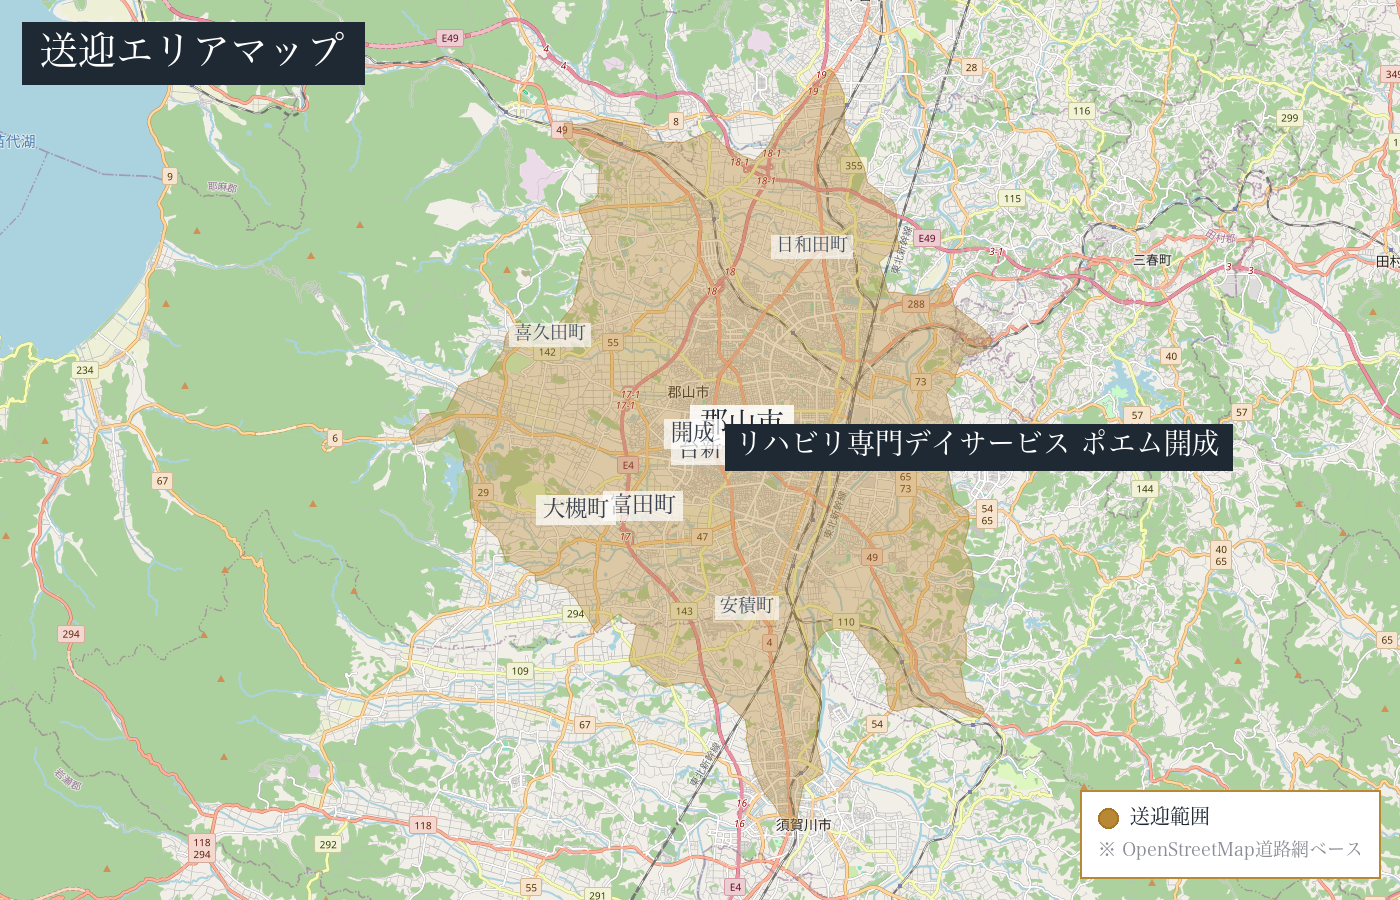
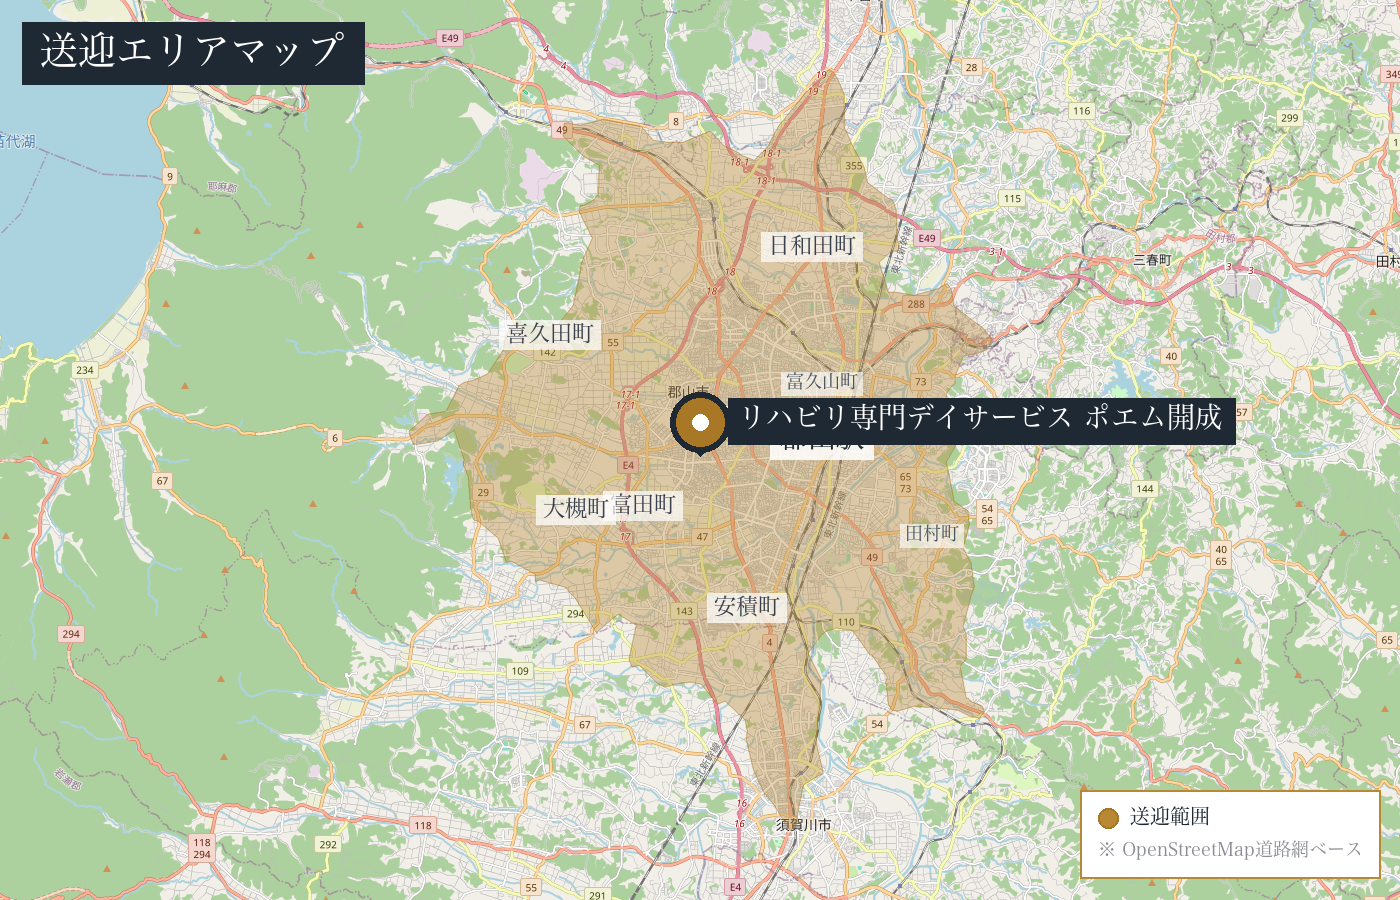
送迎マップ：中心マーカーを📍ピン形状に+周辺地名を強化
【ピンマーカー】
従来の3重円マーカーを廃止し、PILで📍風のティアドロップ型ピンを描画。
ダークアウトライン・ゴールド本体・白い中心点で目立つ仕様に。

【地名ラベル強化】
4事業所すべてに送迎範囲の境界付近の地名を追加：
- 安積店：郡山駅・田村町・喜久田町・阿久津 等
- 賀庄：富久山町・喜久田町・田村町 等
- 開成：開成山公園・富久山町・田村町 等
- 舘山荘：塙町・大子町・矢祭町中心部・関岡 等

これでケアマネが「うちの地域は範囲内？」を地名で素早く判断できる。

diff --git a/tools/generate-isochrone-map.py b/tools/generate-isochrone-map.py
@@ -32,14 +32,17 @@ FACILITIES = [
         'slug': 'asaka',
         'lat': 37.349490, 'lng': 140.362112,
         'labels': [
-            ('郡山市', 37.4003, 140.3596, 'big'),
+            ('郡山駅', 37.3963, 140.3873, 'big'),
             ('須賀川市', 37.2868, 140.3727, 'big'),
             ('安積町', 37.3505, 140.3613, 'med'),
             ('富田町', 37.3782, 140.3257, 'med'),
             ('大槻町', 37.3772, 140.3027, 'med'),
+            ('安積永盛', 37.3325, 140.3717, 'med'),
+            ('田村町', 37.3500, 140.4350, 'med'),
             ('日和田町', 37.4490, 140.3837, 'small'),
             ('長沼', 37.3300, 140.2300, 'small'),
-            ('安積永盛', 37.3325, 140.3717, 'small'),
+            ('喜久田町', 37.4250, 140.2937, 'small'),
+            ('阿久津', 37.3580, 140.3870, 'small'),
         ],
     },
     {
@@ -47,13 +50,15 @@ FACILITIES = [
         'slug': 'kasho',
         'lat': 37.371613, 'lng': 140.368108,
         'labels': [
-            ('郡山市', 37.4003, 140.3596, 'big'),
-            ('賀庄', 37.371613, 140.368108, 'med'),
+            ('郡山駅', 37.3963, 140.3873, 'big'),
             ('安積町', 37.3505, 140.3613, 'med'),
             ('富田町', 37.3782, 140.3257, 'med'),
+            ('富久山町', 37.4115, 140.3870, 'med'),
             ('日和田町', 37.4490, 140.3837, 'med'),
-            ('喜久田町', 37.4250, 140.2937, 'small'),
+            ('喜久田町', 37.4250, 140.2937, 'med'),
+            ('田村町', 37.3500, 140.4350, 'med'),
             ('大槻町', 37.3772, 140.3027, 'small'),
+            ('安積永盛', 37.3325, 140.3717, 'small'),
         ],
     },
     {
@@ -61,14 +66,15 @@ FACILITIES = [
         'slug': 'kaisei',
         'lat': 37.393652, 'lng': 140.345112,
         'labels': [
-            ('郡山市', 37.4003, 140.3596, 'big'),
-            ('台新', 37.393652, 140.345112, 'med'),
-            ('開成', 37.398, 140.343, 'med'),
+            ('郡山駅', 37.3963, 140.3873, 'big'),
+            ('開成山公園', 37.4015, 140.3590, 'med'),
             ('富田町', 37.3782, 140.3257, 'med'),
+            ('喜久田町', 37.4250, 140.2937, 'med'),
+            ('日和田町', 37.4490, 140.3837, 'med'),
             ('大槻町', 37.3772, 140.3027, 'med'),
-            ('喜久田町', 37.4250, 140.2937, 'small'),
-            ('日和田町', 37.4490, 140.3837, 'small'),
-            ('安積町', 37.3505, 140.3613, 'small'),
+            ('安積町', 37.3505, 140.3613, 'med'),
+            ('富久山町', 37.4115, 140.3870, 'small'),
+            ('田村町', 37.3700, 140.4250, 'small'),
         ],
     },
     {
@@ -76,11 +82,13 @@ FACILITIES = [
         'slug': 'tateyama',
         'lat': 36.875226, 'lng': 140.428018,
         'labels': [
-            ('矢祭町', 36.875, 140.428, 'big'),
-            ('塙町', 36.951, 140.460, 'big'),
-            ('棚倉町', 37.029, 140.376, 'big'),
-            ('東舘', 36.875, 140.428, 'small'),
-            ('大子町', 36.768, 140.358, 'med'),
+            ('矢祭町中心部', 36.876, 140.392, 'big'),
+            ('塙町', 36.951, 140.413, 'big'),
+            ('大子町', 36.768, 140.358, 'big'),
+            ('東舘', 36.875, 140.428, 'med'),
+            ('内川', 36.910, 140.420, 'small'),
+            ('関岡', 36.840, 140.420, 'small'),
+            ('下関河内', 36.860, 140.470, 'small'),
         ],
     },
 ]
@@ -147,11 +155,7 @@ def render_facility(fac, output_dir, zoom=12, w=1400, h=900):
         coords = f['geometry']['coordinates'][0]
         m.add_polygon(Polygon(coords, '#b8883560', '#a87827', simplify=False))
 
-    # 中心マーカー
-    m.add_marker(CircleMarker((fac['lng'], fac['lat']), '#1f2933', 30))
-    m.add_marker(CircleMarker((fac['lng'], fac['lat']), '#fff', 24))
-    m.add_marker(CircleMarker((fac['lng'], fac['lat']), '#b88835', 14))
-
+    # 中心マーカーは後でPILで📍ピンとして描画する
     img = m.render(zoom=zoom).convert('RGB')
     draw = ImageDraw.Draw(img)
 
@@ -180,14 +184,31 @@ def render_facility(fac, output_dir, zoom=12, w=1400, h=900):
         draw = ImageDraw.Draw(img)
         draw.text((x - bw // 2, y - bh // 2 - 3), name, fill=color, font=f)
 
-    # 中心の施設名ラベル
+    # 中心の📍ピン（PILで描画）
     cx, cy = w // 2, h // 2
+    pin_size = 56
+    # ティアドロップ型のピン（楕円＋三角）
+    pin_top = cy - pin_size
+    # ピン外側（ダーク）
+    draw.ellipse([cx - pin_size // 2 - 2, pin_top - 2, cx + pin_size // 2 + 2, pin_top + pin_size + 2],
+                 fill='#1f2933', outline=None)
+    # 三角の足を描く（黒）
+    foot = [(cx - 14, pin_top + pin_size - 6), (cx + 14, pin_top + pin_size - 6), (cx, cy + 6)]
+    draw.polygon(foot, fill='#1f2933')
+    # ピン内側（ゴールド）
+    draw.ellipse([cx - pin_size // 2 + 4, pin_top + 4, cx + pin_size // 2 - 4, pin_top + pin_size - 4],
+                 fill='#a87827', outline=None)
+    # 中心の白い丸
+    draw.ellipse([cx - 8, pin_top + pin_size // 2 - 8, cx + 8, pin_top + pin_size // 2 + 8],
+                 fill='#fff', outline=None)
+
+    # 施設名ラベル（ピンの右）
     label = fac['name']
     bbox = draw.textbbox((0, 0), label, font=font_big)
     lw = bbox[2] - bbox[0]
     lh = bbox[3] - bbox[1]
-    lx = cx + 35
-    ly = cy - 18
+    lx = cx + 38
+    ly = cy - pin_size + 12
     draw.rectangle([lx - 10, ly - 8, lx + lw + 12, ly + lh + 10], fill='#1f2933')
     draw.text((lx, ly - 3), label, fill='#fff', font=font_big)
 
